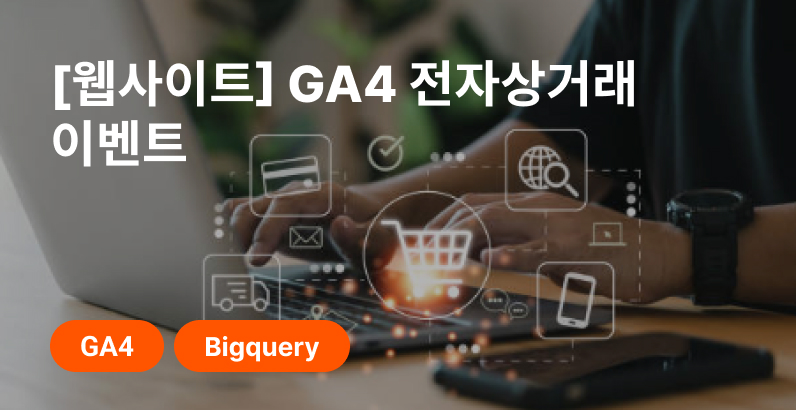
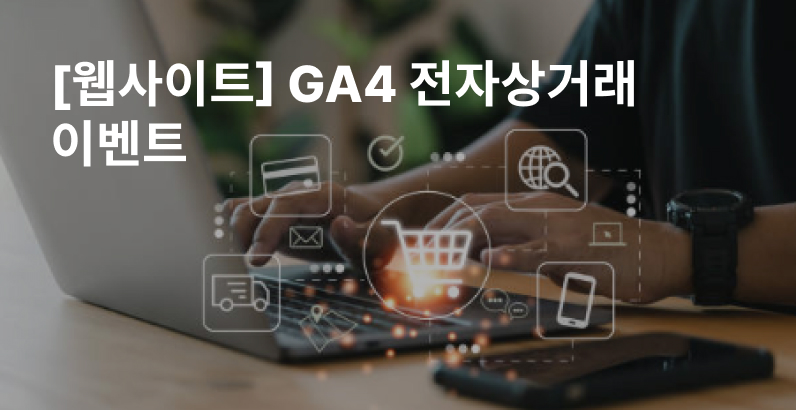
Update

Changed region(s): [[0.0603, 0.761, 0.4523, 0.9073]]

diff --git a/resource/blog.html b/resource/blog.html
@@ -221,7 +221,13 @@
                     <ul class="blog-bottom-lists">
                         <li class="blog-bottom-list">
                             <a href="/resource/blogDetail.html">
-                                <figure class="blog-bottom-thumb"><img src="/public/img/blog-bottom-thumb.jpg" alt="blog-bottom-thumb"></figure>
+                                <figure class="blog-bottom-thumb">
+                                    <img src="/public/img/blog-bottom-thumb.jpg" alt="blog-bottom-thumb">
+                                    <ul class="blog-bottom-categories">
+                                        <li class="blog-bottom-category">GA4</li>
+                                        <li class="blog-bottom-category">Bigquery</li>
+                                    </ul>
+                                </figure>
                                 <dl>
                                     <dt>[웹사이트] GA4 전자상거래 이벤트</dt>
                                     <dd>
@@ -233,7 +239,13 @@
                         </li>
                         <li class="blog-bottom-list">
                             <a href="/resource/blogDetail.html">
-                                <figure class="blog-bottom-thumb"><img src="/public/img/blog-bottom-thumb.jpg" alt="blog-bottom-thumb"></figure>
+                                <figure class="blog-bottom-thumb">
+                                    <img src="/public/img/blog-bottom-thumb.jpg" alt="blog-bottom-thumb">
+                                    <ul class="blog-bottom-categories">
+                                        <li class="blog-bottom-category">GA4</li>
+                                        <li class="blog-bottom-category">Bigquery</li>
+                                    </ul>
+                                </figure>
                                 <dl>
                                     <dt>[웹사이트] GA4 전자상거래 이벤트</dt>
                                     <dd>
@@ -245,7 +257,13 @@
                         </li>
                         <li class="blog-bottom-list">
                             <a href="/resource/blogDetail.html">
-                                <figure class="blog-bottom-thumb"><img src="/public/img/blog-bottom-thumb.jpg" alt="blog-bottom-thumb"></figure>
+                                <figure class="blog-bottom-thumb">
+                                    <img src="/public/img/blog-bottom-thumb.jpg" alt="blog-bottom-thumb">
+                                    <ul class="blog-bottom-categories">
+                                        <li class="blog-bottom-category">GA4</li>
+                                        <li class="blog-bottom-category">Bigquery</li>
+                                    </ul>
+                                </figure>
                                 <dl>
                                     <dt>[웹사이트] GA4 전자상거래 이벤트</dt>
                                     <dd>
@@ -257,7 +275,13 @@
                         </li>
                         <li class="blog-bottom-list">
                             <a href="/resource/blogDetail.html">
-                                <figure class="blog-bottom-thumb"><img src="/public/img/blog-bottom-thumb.jpg" alt="blog-bottom-thumb"></figure>
+                                <figure class="blog-bottom-thumb">
+                                    <img src="/public/img/blog-bottom-thumb.jpg" alt="blog-bottom-thumb">
+                                    <ul class="blog-bottom-categories">
+                                        <li class="blog-bottom-category">GA4</li>
+                                        <li class="blog-bottom-category">Bigquery</li>
+                                    </ul>
+                                </figure>
                                 <dl>
                                     <dt>[웹사이트] GA4 전자상거래 이벤트</dt>
                                     <dd>
@@ -269,7 +293,13 @@
                         </li>
                         <li class="blog-bottom-list">
                             <a href="/resource/blogDetail.html">
-                                <figure class="blog-bottom-thumb"><img src="/public/img/blog-bottom-thumb.jpg" alt="blog-bottom-thumb"></figure>
+                                <figure class="blog-bottom-thumb">
+                                    <img src="/public/img/blog-bottom-thumb.jpg" alt="blog-bottom-thumb">
+                                    <ul class="blog-bottom-categories">
+                                        <li class="blog-bottom-category">GA4</li>
+                                        <li class="blog-bottom-category">Bigquery</li>
+                                    </ul>
+                                </figure>
                                 <dl>
                                     <dt>[웹사이트] GA4 전자상거래 이벤트</dt>
                                     <dd>
@@ -281,7 +311,13 @@
                         </li>
                         <li class="blog-bottom-list">
                             <a href="/resource/blogDetail.html">
-                                <figure class="blog-bottom-thumb"><img src="/public/img/blog-bottom-thumb.jpg" alt="blog-bottom-thumb"></figure>
+                                <figure class="blog-bottom-thumb">
+                                    <img src="/public/img/blog-bottom-thumb.jpg" alt="blog-bottom-thumb">
+                                    <ul class="blog-bottom-categories">
+                                        <li class="blog-bottom-category">GA4</li>
+                                        <li class="blog-bottom-category">Bigquery</li>
+                                    </ul>
+                                </figure>
                                 <dl>
                                     <dt>[웹사이트] GA4 전자상거래 이벤트</dt>
                                     <dd>

diff --git a/resource/caseStudy.html b/resource/caseStudy.html
@@ -221,7 +221,13 @@
                     <ul class="blog-bottom-lists">
                         <li class="blog-bottom-list">
                             <a href="/resource/caseDetail.html">
-                                <figure class="blog-bottom-thumb"><img src="/public/img/blog-bottom-thumb.jpg" alt="blog-bottom-thumb"></figure>
+                                <figure class="blog-bottom-thumb">
+                                    <img src="/public/img/blog-bottom-thumb.jpg" alt="blog-bottom-thumb">
+                                    <ul class="blog-bottom-categories">
+                                        <li class="blog-bottom-category">GA4</li>
+                                        <li class="blog-bottom-category">Bigquery</li>
+                                    </ul>
+                                </figure>
                                 <dl>
                                     <dt>[웹사이트] GA4 전자상거래 이벤트</dt>
                                     <dd>
@@ -233,7 +239,13 @@
                         </li>
                         <li class="blog-bottom-list">
                             <a href="/resource/caseDetail.html">
-                                <figure class="blog-bottom-thumb"><img src="/public/img/blog-bottom-thumb.jpg" alt="blog-bottom-thumb"></figure>
+                                <figure class="blog-bottom-thumb">
+                                    <img src="/public/img/blog-bottom-thumb.jpg" alt="blog-bottom-thumb">
+                                    <ul class="blog-bottom-categories">
+                                        <li class="blog-bottom-category">GA4</li>
+                                        <li class="blog-bottom-category">Bigquery</li>
+                                    </ul>
+                                </figure>
                                 <dl>
                                     <dt>[웹사이트] GA4 전자상거래 이벤트</dt>
                                     <dd>
@@ -245,7 +257,13 @@
                         </li>
                         <li class="blog-bottom-list">
                             <a href="/resource/caseDetail.html">
-                                <figure class="blog-bottom-thumb"><img src="/public/img/blog-bottom-thumb.jpg" alt="blog-bottom-thumb"></figure>
+                                <figure class="blog-bottom-thumb">
+                                    <img src="/public/img/blog-bottom-thumb.jpg" alt="blog-bottom-thumb">
+                                    <ul class="blog-bottom-categories">
+                                        <li class="blog-bottom-category">GA4</li>
+                                        <li class="blog-bottom-category">Bigquery</li>
+                                    </ul>
+                                </figure>
                                 <dl>
                                     <dt>[웹사이트] GA4 전자상거래 이벤트</dt>
                                     <dd>
@@ -257,7 +275,13 @@
                         </li>
                         <li class="blog-bottom-list">
                             <a href="/resource/caseDetail.html">
-                                <figure class="blog-bottom-thumb"><img src="/public/img/blog-bottom-thumb.jpg" alt="blog-bottom-thumb"></figure>
+                                <figure class="blog-bottom-thumb">
+                                    <img src="/public/img/blog-bottom-thumb.jpg" alt="blog-bottom-thumb">
+                                    <ul class="blog-bottom-categories">
+                                        <li class="blog-bottom-category">GA4</li>
+                                        <li class="blog-bottom-category">Bigquery</li>
+                                    </ul>
+                                </figure>
                                 <dl>
                                     <dt>[웹사이트] GA4 전자상거래 이벤트</dt>
                                     <dd>
@@ -269,7 +293,13 @@
                         </li>
                         <li class="blog-bottom-list">
                             <a href="/resource/caseDetail.html">
-                                <figure class="blog-bottom-thumb"><img src="/public/img/blog-bottom-thumb.jpg" alt="blog-bottom-thumb"></figure>
+                                <figure class="blog-bottom-thumb">
+                                    <img src="/public/img/blog-bottom-thumb.jpg" alt="blog-bottom-thumb">
+                                    <ul class="blog-bottom-categories">
+                                        <li class="blog-bottom-category">GA4</li>
+                                        <li class="blog-bottom-category">Bigquery</li>
+                                    </ul>
+                                </figure>
                                 <dl>
                                     <dt>[웹사이트] GA4 전자상거래 이벤트</dt>
                                     <dd>
@@ -281,7 +311,13 @@
                         </li>
                         <li class="blog-bottom-list">
                             <a href="/resource/caseDetail.html">
-                                <figure class="blog-bottom-thumb"><img src="/public/img/blog-bottom-thumb.jpg" alt="blog-bottom-thumb"></figure>
+                                <figure class="blog-bottom-thumb">
+                                    <img src="/public/img/blog-bottom-thumb.jpg" alt="blog-bottom-thumb">
+                                    <ul class="blog-bottom-categories">
+                                        <li class="blog-bottom-category">GA4</li>
+                                        <li class="blog-bottom-category">Bigquery</li>
+                                    </ul>
+                                </figure>
                                 <dl>
                                     <dt>[웹사이트] GA4 전자상거래 이벤트</dt>
                                     <dd>

diff --git a/index.html b/index.html
@@ -51,7 +51,7 @@
                         </ul>
                     </li>
                     <li class="header-menu"><a href="/portfolio.html">Portfolio</a></li>
-                    <li class="header-menu"><a href="/caseStudy.html">Case Study</a></li>
+                    <li class="header-menu"><a href="/resource/caseStudy.html">Case Study</a></li>
                     <li class="header-menu">
                         <span class="after-arrow bottom">Resources</span>
                         <ul class="header-sub-menus">
@@ -567,7 +567,13 @@
                         <ul class="blog-bottom-lists">
                             <li class="blog-bottom-list">
                                 <a href="/resource/blogDetail.html">
-                                    <figure class="blog-bottom-thumb"><img src="/public/img/blog-bottom-thumb.jpg" alt="blog-bottom-thumb"></figure>
+                                    <figure class="blog-bottom-thumb">
+                                    <img src="/public/img/blog-bottom-thumb.jpg" alt="blog-bottom-thumb">
+                                    <ul class="blog-bottom-categories">
+                                        <li class="blog-bottom-category">GA4</li>
+                                        <li class="blog-bottom-category">Bigquery</li>
+                                    </ul>
+                                </figure>
                                     <dl>
                                         <dt>[웹사이트] GA4 전자상거래 이벤트</dt>
                                         <dd>
@@ -579,7 +585,13 @@
                             </li>
                             <li class="blog-bottom-list">
                                 <a href="/resource/blogDetail.html">
-                                    <figure class="blog-bottom-thumb"><img src="/public/img/blog-bottom-thumb.jpg" alt="blog-bottom-thumb"></figure>
+                                    <figure class="blog-bottom-thumb">
+                                    <img src="/public/img/blog-bottom-thumb.jpg" alt="blog-bottom-thumb">
+                                    <ul class="blog-bottom-categories">
+                                        <li class="blog-bottom-category">GA4</li>
+                                        <li class="blog-bottom-category">Bigquery</li>
+                                    </ul>
+                                </figure>
                                     <dl>
                                         <dt>[웹사이트] GA4 전자상거래 이벤트</dt>
                                         <dd>
@@ -591,7 +603,13 @@
                             </li>
                             <li class="blog-bottom-list">
                                 <a href="/resource/blogDetail.html">
-                                    <figure class="blog-bottom-thumb"><img src="/public/img/blog-bottom-thumb.jpg" alt="blog-bottom-thumb"></figure>
+                                    <figure class="blog-bottom-thumb">
+                                    <img src="/public/img/blog-bottom-thumb.jpg" alt="blog-bottom-thumb">
+                                    <ul class="blog-bottom-categories">
+                                        <li class="blog-bottom-category">GA4</li>
+                                        <li class="blog-bottom-category">Bigquery</li>
+                                    </ul>
+                                </figure>
                                     <dl>
                                         <dt>[웹사이트] GA4 전자상거래 이벤트</dt>
                                         <dd>

diff --git a/resource/blogDetail.html b/resource/blogDetail.html
@@ -176,7 +176,13 @@
                         <ul class="blog-bottom-lists">
                             <li class="blog-bottom-list">
                                 <a href="/resource/blogDetail.html">
-                                    <figure class="blog-bottom-thumb"><img src="/public/img/blog-bottom-thumb.jpg" alt="blog-bottom-thumb"></figure>
+                                    <figure class="blog-bottom-thumb">
+                                    <img src="/public/img/blog-bottom-thumb.jpg" alt="blog-bottom-thumb">
+                                    <ul class="blog-bottom-categories">
+                                        <li class="blog-bottom-category">GA4</li>
+                                        <li class="blog-bottom-category">Bigquery</li>
+                                    </ul>
+                                </figure>
                                     <dl>
                                         <dt>[웹사이트] GA4 전자상거래 이벤트</dt>
                                         <dd>
@@ -188,7 +194,13 @@
                             </li>
                             <li class="blog-bottom-list">
                                 <a href="/resource/blogDetail.html">
-                                    <figure class="blog-bottom-thumb"><img src="/public/img/blog-bottom-thumb.jpg" alt="blog-bottom-thumb"></figure>
+                                    <figure class="blog-bottom-thumb">
+                                    <img src="/public/img/blog-bottom-thumb.jpg" alt="blog-bottom-thumb">
+                                    <ul class="blog-bottom-categories">
+                                        <li class="blog-bottom-category">GA4</li>
+                                        <li class="blog-bottom-category">Bigquery</li>
+                                    </ul>
+                                </figure>
                                     <dl>
                                         <dt>[웹사이트] GA4 전자상거래 이벤트</dt>
                                         <dd>
@@ -200,7 +212,13 @@
                             </li>
                             <li class="blog-bottom-list">
                                 <a href="/resource/blogDetail.html">
-                                    <figure class="blog-bottom-thumb"><img src="/public/img/blog-bottom-thumb.jpg" alt="blog-bottom-thumb"></figure>
+                                    <figure class="blog-bottom-thumb">
+                                    <img src="/public/img/blog-bottom-thumb.jpg" alt="blog-bottom-thumb">
+                                    <ul class="blog-bottom-categories">
+                                        <li class="blog-bottom-category">GA4</li>
+                                        <li class="blog-bottom-category">Bigquery</li>
+                                    </ul>
+                                </figure>
                                     <dl>
                                         <dt>[웹사이트] GA4 전자상거래 이벤트</dt>
                                         <dd>

diff --git a/resource/caseDetail.html b/resource/caseDetail.html
@@ -167,7 +167,13 @@
                         <ul class="blog-bottom-lists">
                             <li class="blog-bottom-list">
                                 <a href="/resource/caseDetail.html">
-                                    <figure class="blog-bottom-thumb"><img src="/public/img/blog-bottom-thumb.jpg" alt="blog-bottom-thumb"></figure>
+                                    <figure class="blog-bottom-thumb">
+                                    <img src="/public/img/blog-bottom-thumb.jpg" alt="blog-bottom-thumb">
+                                    <ul class="blog-bottom-categories">
+                                        <li class="blog-bottom-category">GA4</li>
+                                        <li class="blog-bottom-category">Bigquery</li>
+                                    </ul>
+                                </figure>
                                     <dl>
                                         <dt>[웹사이트] GA4 전자상거래 이벤트</dt>
                                         <dd>
@@ -179,7 +185,13 @@
                             </li>
                             <li class="blog-bottom-list">
                                 <a href="/resource/caseDetail.html">
-                                    <figure class="blog-bottom-thumb"><img src="/public/img/blog-bottom-thumb.jpg" alt="blog-bottom-thumb"></figure>
+                                    <figure class="blog-bottom-thumb">
+                                    <img src="/public/img/blog-bottom-thumb.jpg" alt="blog-bottom-thumb">
+                                    <ul class="blog-bottom-categories">
+                                        <li class="blog-bottom-category">GA4</li>
+                                        <li class="blog-bottom-category">Bigquery</li>
+                                    </ul>
+                                </figure>
                                     <dl>
                                         <dt>[웹사이트] GA4 전자상거래 이벤트</dt>
                                         <dd>
@@ -191,7 +203,13 @@
                             </li>
                             <li class="blog-bottom-list">
                                 <a href="/resource/caseDetail.html">
-                                    <figure class="blog-bottom-thumb"><img src="/public/img/blog-bottom-thumb.jpg" alt="blog-bottom-thumb"></figure>
+                                    <figure class="blog-bottom-thumb">
+                                    <img src="/public/img/blog-bottom-thumb.jpg" alt="blog-bottom-thumb">
+                                    <ul class="blog-bottom-categories">
+                                        <li class="blog-bottom-category">GA4</li>
+                                        <li class="blog-bottom-category">Bigquery</li>
+                                    </ul>
+                                </figure>
                                     <dl>
                                         <dt>[웹사이트] GA4 전자상거래 이벤트</dt>
                                         <dd>

diff --git a/public/css/sub.css b/public/css/sub.css
@@ -1394,6 +1394,21 @@
 .blog-popular-list:hover img{
     transform: scale(1.2);
 }
+.blog-bottom-categories{
+    position: absolute;
+    left: 25px;
+    bottom: 20px;
+    display: flex;
+    align-items: center;
+    gap:5px;
+}
+.blog-bottom-categories li{
+    font-size: 14px;
+    color: #fff;
+    padding: 4px 15px;
+    border-radius: 20px;
+    background-color: #FF5400;
+}
 .blog-bottom-list .blog-bottom-thumb img{
     width: 100%;
     max-height: 205px;
@@ -1403,6 +1418,7 @@
 .news-list .news-thumb  {
     border-radius: 10px 10px 0 0 ;
     overflow: hidden;
+    position: relative;
 }
 .blog-bottom-list dl,
 .news-list dl {
@@ -1521,10 +1537,16 @@
     .blog-top-right-categories{
         width: 300px;
     }
+    .blog-bottom-categories li{
+        font-size: 12px;
+    }
 }
 @media (max-width: 500px){
     .blog-bottom-list{
         width: 100%;
+    }
+    .blog-bottom-categories li{
+        font-size: 14px;
     }
 }
 /* :::::::::::::::::::::: BLOG -end ::::::::::::::::::::::*/
